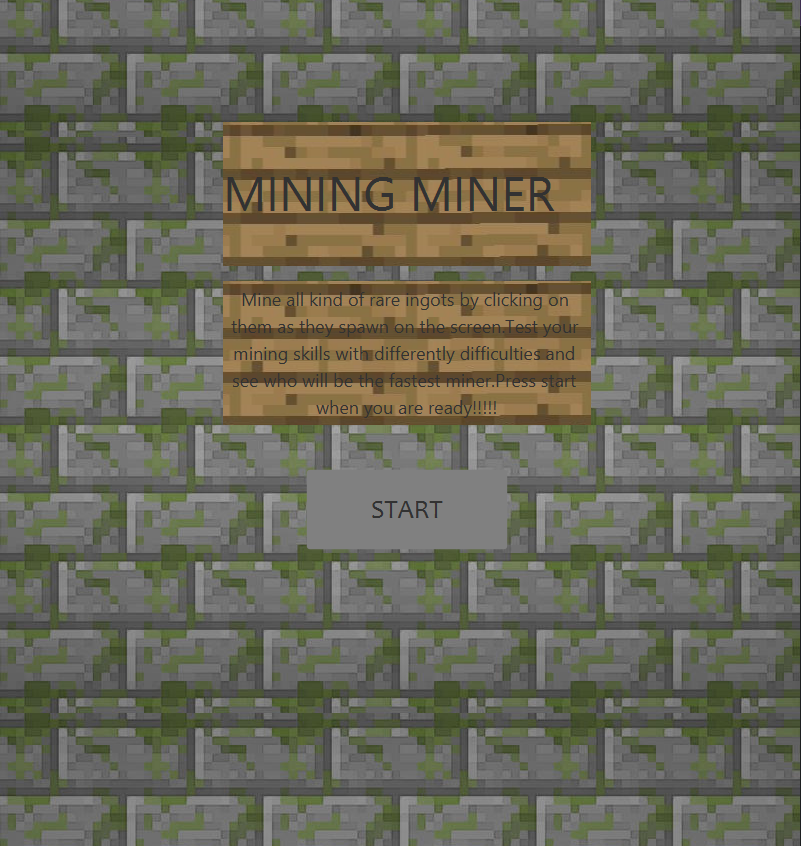
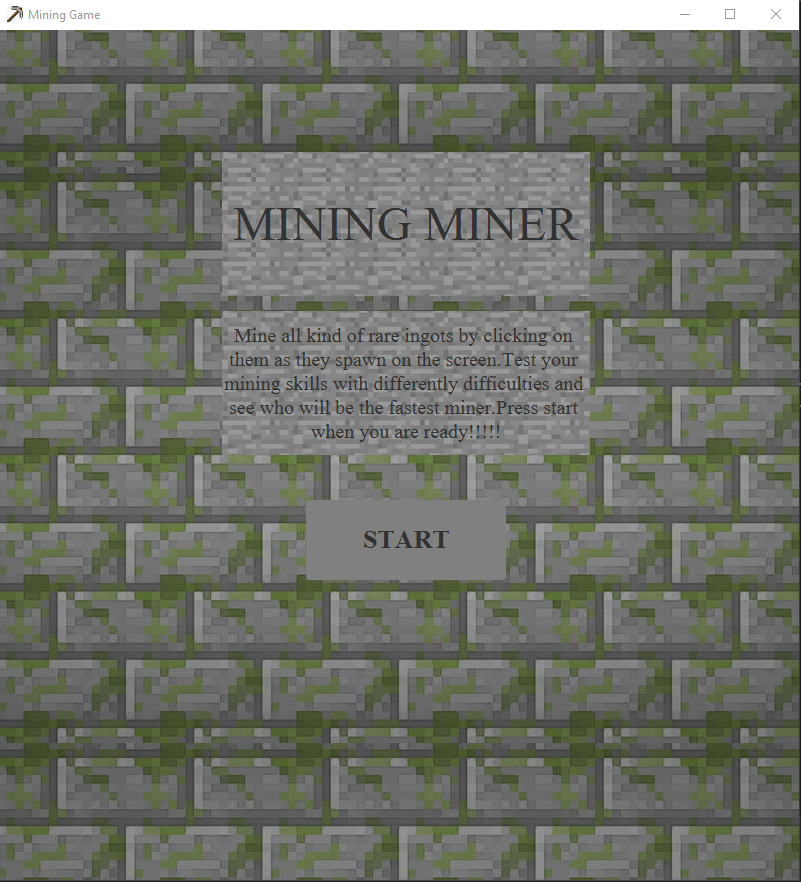
Code fix, changed interface to make game easier to read.

diff --git a/src/main/java/SE2203B/MiningGame/MiningGameController.java b/src/main/java/SE2203B/MiningGame/MiningGameController.java
@@ -43,15 +43,15 @@ public class MiningGameController implements Initializable {
 
     @FXML
     private Button resetBtn;
+    public static Image stone = new Image("file:src/main/resources/SE2203B/MiningGame/stonebackground.jpg");
+    public static Background stoneBackground = new Background(new BackgroundImage(stone,BackgroundRepeat.REPEAT,BackgroundRepeat.REPEAT,BackgroundPosition.CENTER, BackgroundSize.DEFAULT));
 
     @Override
     public void initialize(URL url, ResourceBundle resourceBundle) {
         headSizeLabel.setText("Difficulty");
-        Image stone = new Image("file:src/main/resources/SE2203B/MiningGame/stonebackground.jpg");
-        Background stoneBackground = new Background(new BackgroundImage(stone,BackgroundRepeat.REPEAT,BackgroundRepeat.REPEAT,BackgroundPosition.CENTER, BackgroundSize.DEFAULT));
         gameGrid.setBackground(stoneBackground);
         gameBackground.setBackground(MenuController.mossyStoneBackground);
-        difficultyPane.setBackground(MenuController.woodBackground);
+        difficultyPane.setBackground(stoneBackground);
         random = new Random();
         gridSpaces = new LinkedList<>();
         instance = this;
@@ -108,8 +108,8 @@ public class MiningGameController implements Initializable {
             gameGrid.setVisible(false);
             double endTime = System.currentTimeMillis();
             double totalTime = (endTime - startTime) / 1000;
-            endLabel.setBackground(MenuController.woodBackground);
-            endLabel.setText(String.format("Good Job! - You have collected %d Ingots\n Your time was %.2fs", count, totalTime));
+            endLabel.setBackground(stoneBackground);
+            endLabel.setText(String.format("Good Job! You have collected %d Ingots!\n Your time was %.2fs", count, totalTime));
         }
     }
     private Ingot[] getNewIngot(int size) {

diff --git a/src/main/java/SE2203B/MiningGame/MenuController.java b/src/main/java/SE2203B/MiningGame/MenuController.java
@@ -24,8 +24,6 @@ public class MenuController implements Initializable {
     private AnchorPane menuBackground;
     public static Image mossyStone = new Image("file:src/main/resources/SE2203B/MiningGame/stoneMossyBackground.jpg");
     public static Background mossyStoneBackground = new Background(new BackgroundImage(mossyStone, BackgroundRepeat.REPEAT,BackgroundRepeat.REPEAT, BackgroundPosition.CENTER, BackgroundSize.DEFAULT));
-    public static Image wood = new Image("file:src/main/resources/SE2203B/MiningGame/WoodBackground.jpg");
-    public static Background woodBackground = new Background(new BackgroundImage(wood, BackgroundRepeat.REPEAT,BackgroundRepeat.REPEAT, BackgroundPosition.CENTER, BackgroundSize.DEFAULT));
 
     @FXML
     public void start() throws IOException {
@@ -38,11 +36,12 @@ public class MenuController implements Initializable {
     @Override
     public void initialize(URL url, ResourceBundle resourceBundle) {
         gameTitle.setText("MINING MINER");
-        gameTitle.setBackground(woodBackground);
+        gameTitle.setBackground(MiningGameController.stoneBackground);
         gameDescription.setText("Mine all kind of rare ingots by clicking on them as they spawn on the screen." +
                 "Test your mining skills with differently difficulties and see who will be the fastest miner."+
                 "Press start when you are ready!!!!!");
-        gameDescription.setBackground(woodBackground);
+        gameDescription.setBackground(MiningGameController.stoneBackground);
+        startBtn.setBackground(MiningGameController.stoneBackground);
         menuBackground.setBackground(mossyStoneBackground);
     }
 
